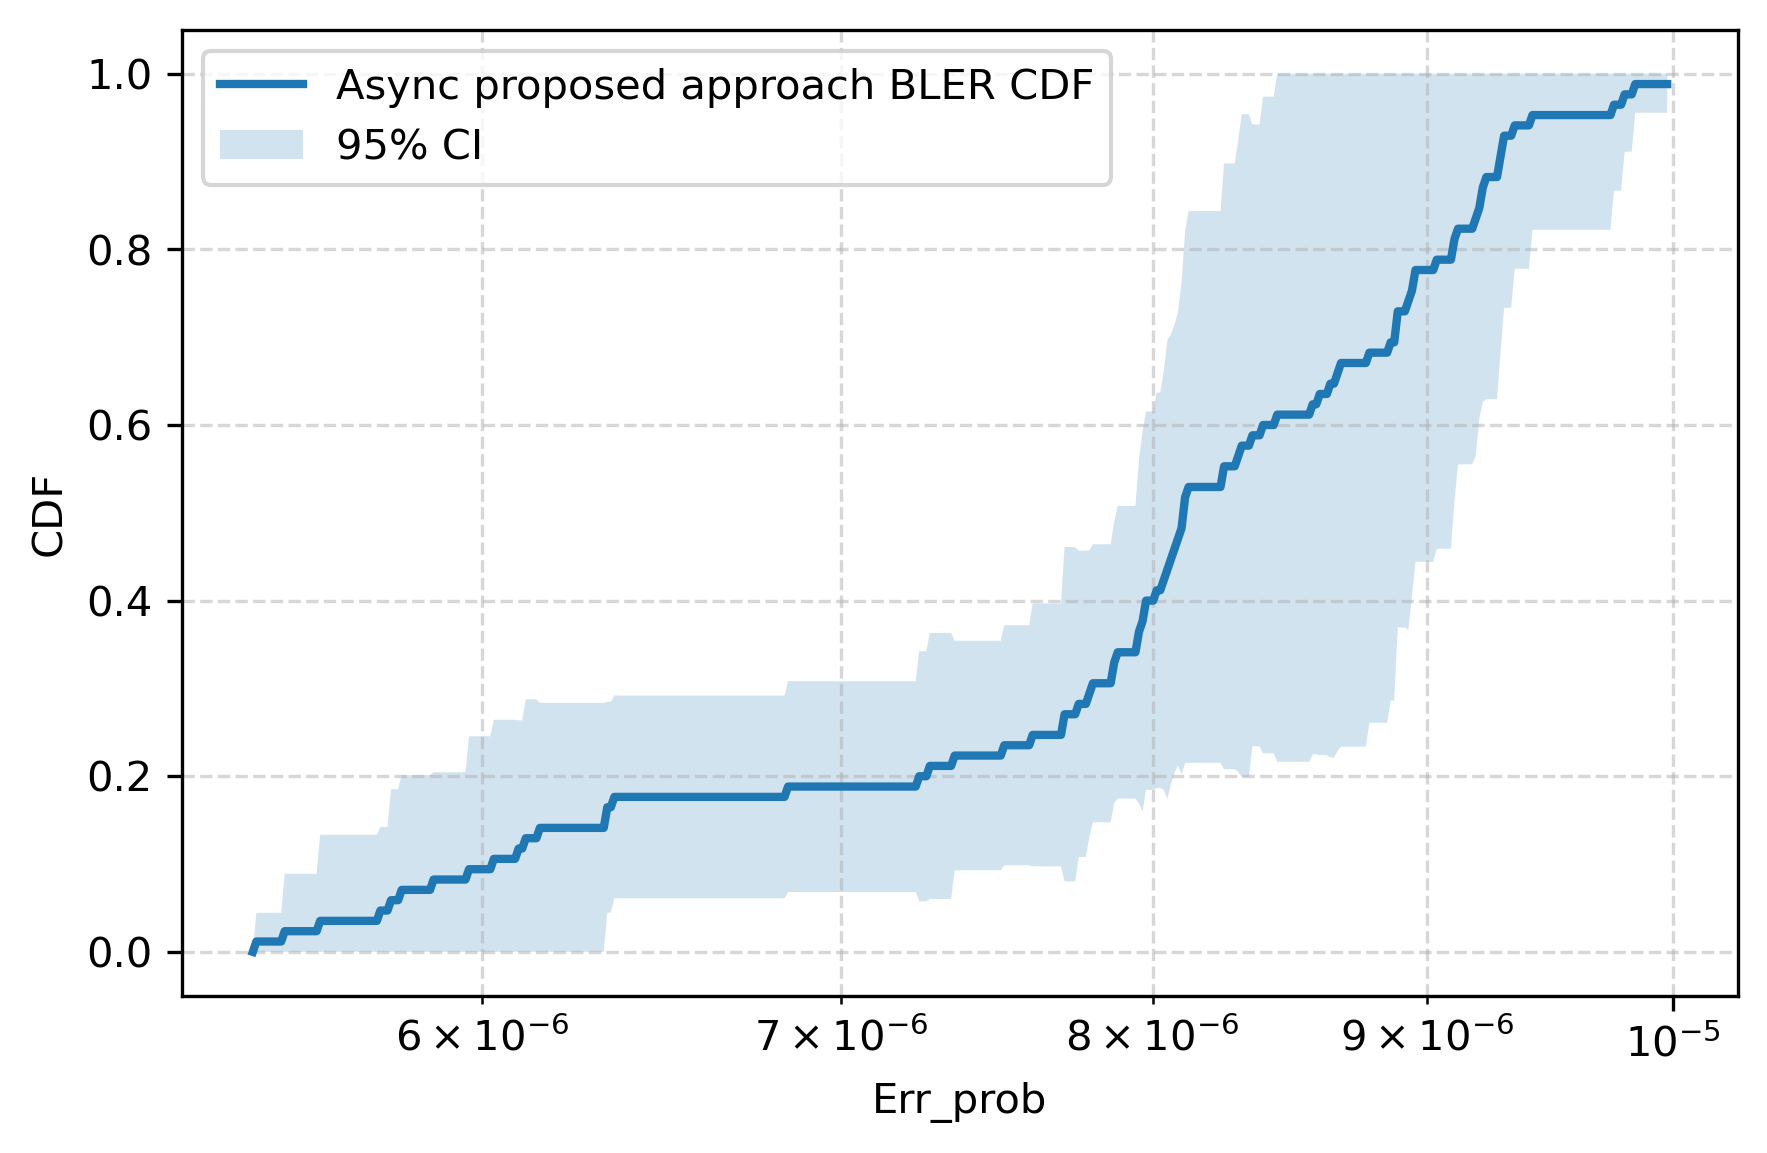
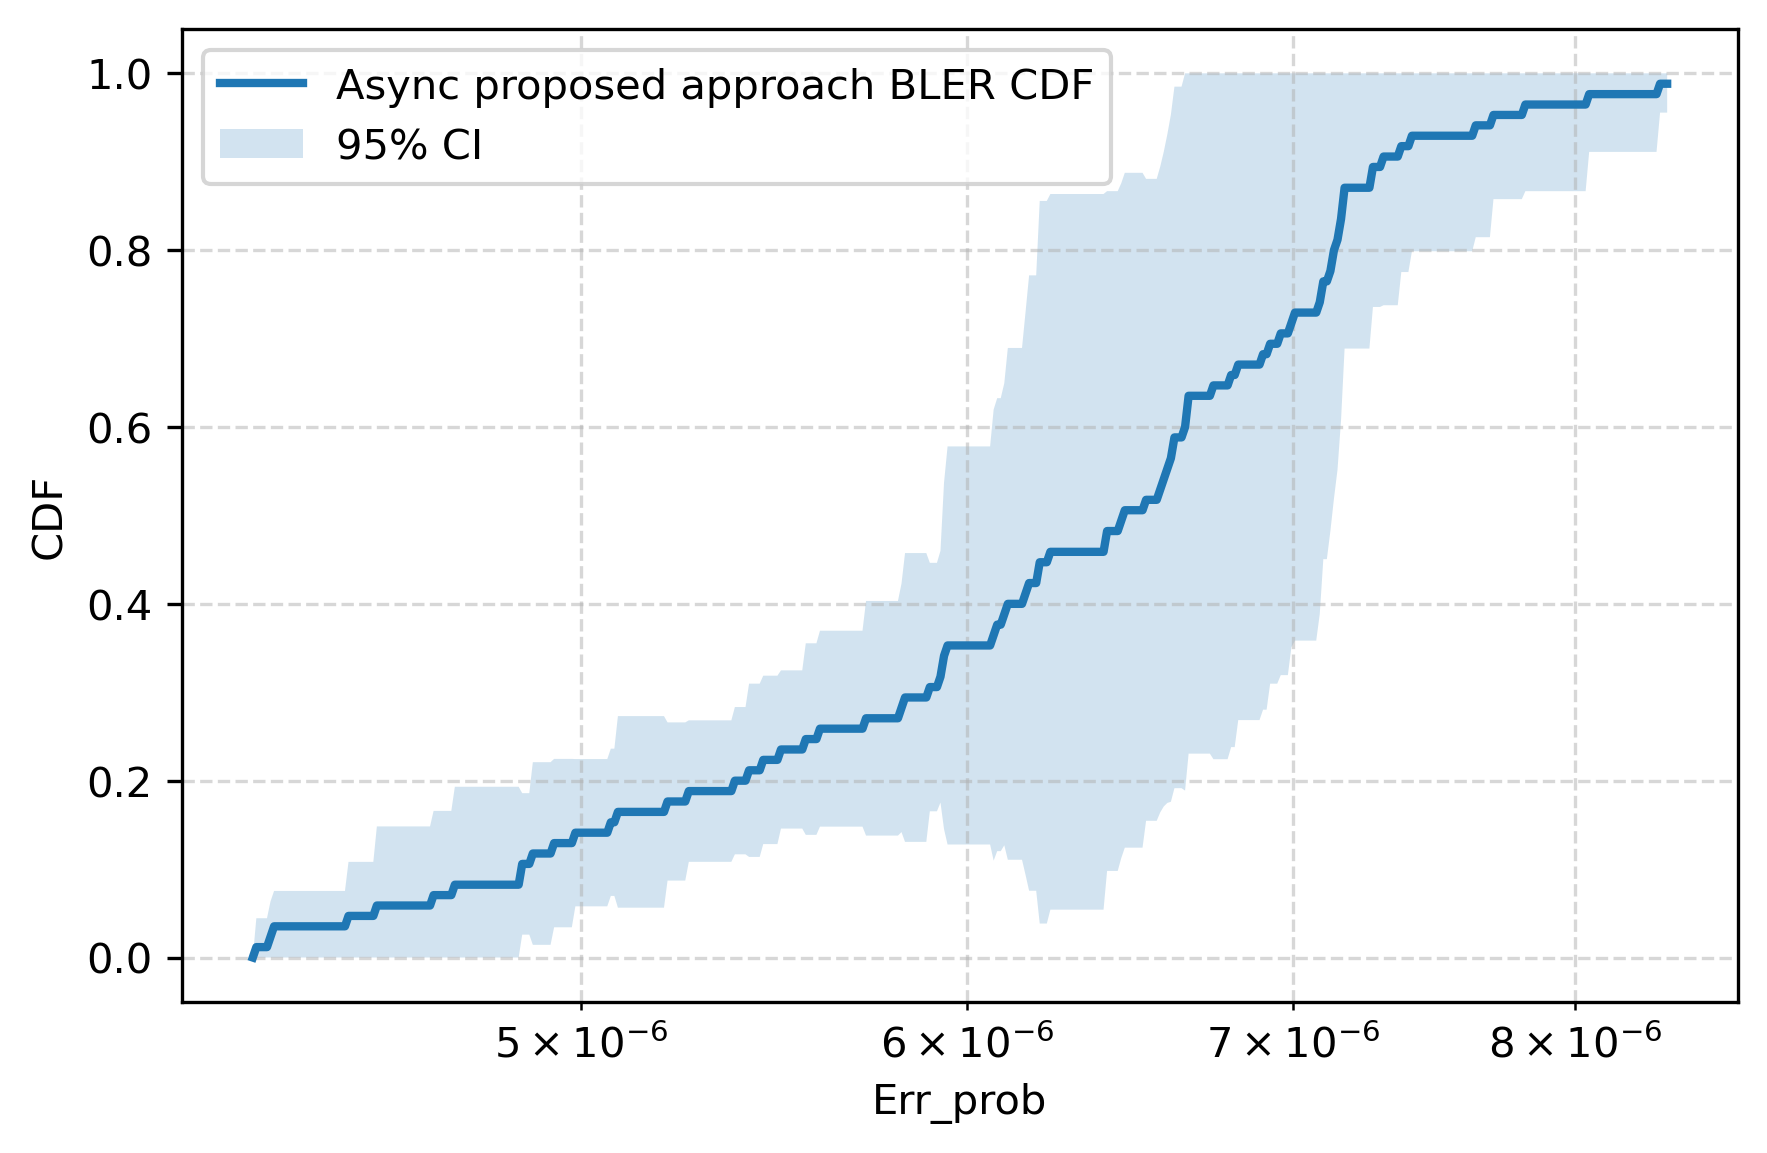
new additions

diff --git a/MADRL_URLLC_2026_lightweight_implementation/Utils/env_orig.py b/MADRL_URLLC_2026_lightweight_implementation/Utils/env_orig.py
@@ -325,7 +325,7 @@ class env:
         """
         # Ensure input is an array
         snr_lin = np.asarray(snr_lin_array, dtype=float)
-        K=16
+        K=24
         # 1) Convert to linear-average SNR
         #gamma_bar = 10**(snr_db / 10)             # shape (M,)
         gamma_bar = snr_lin
